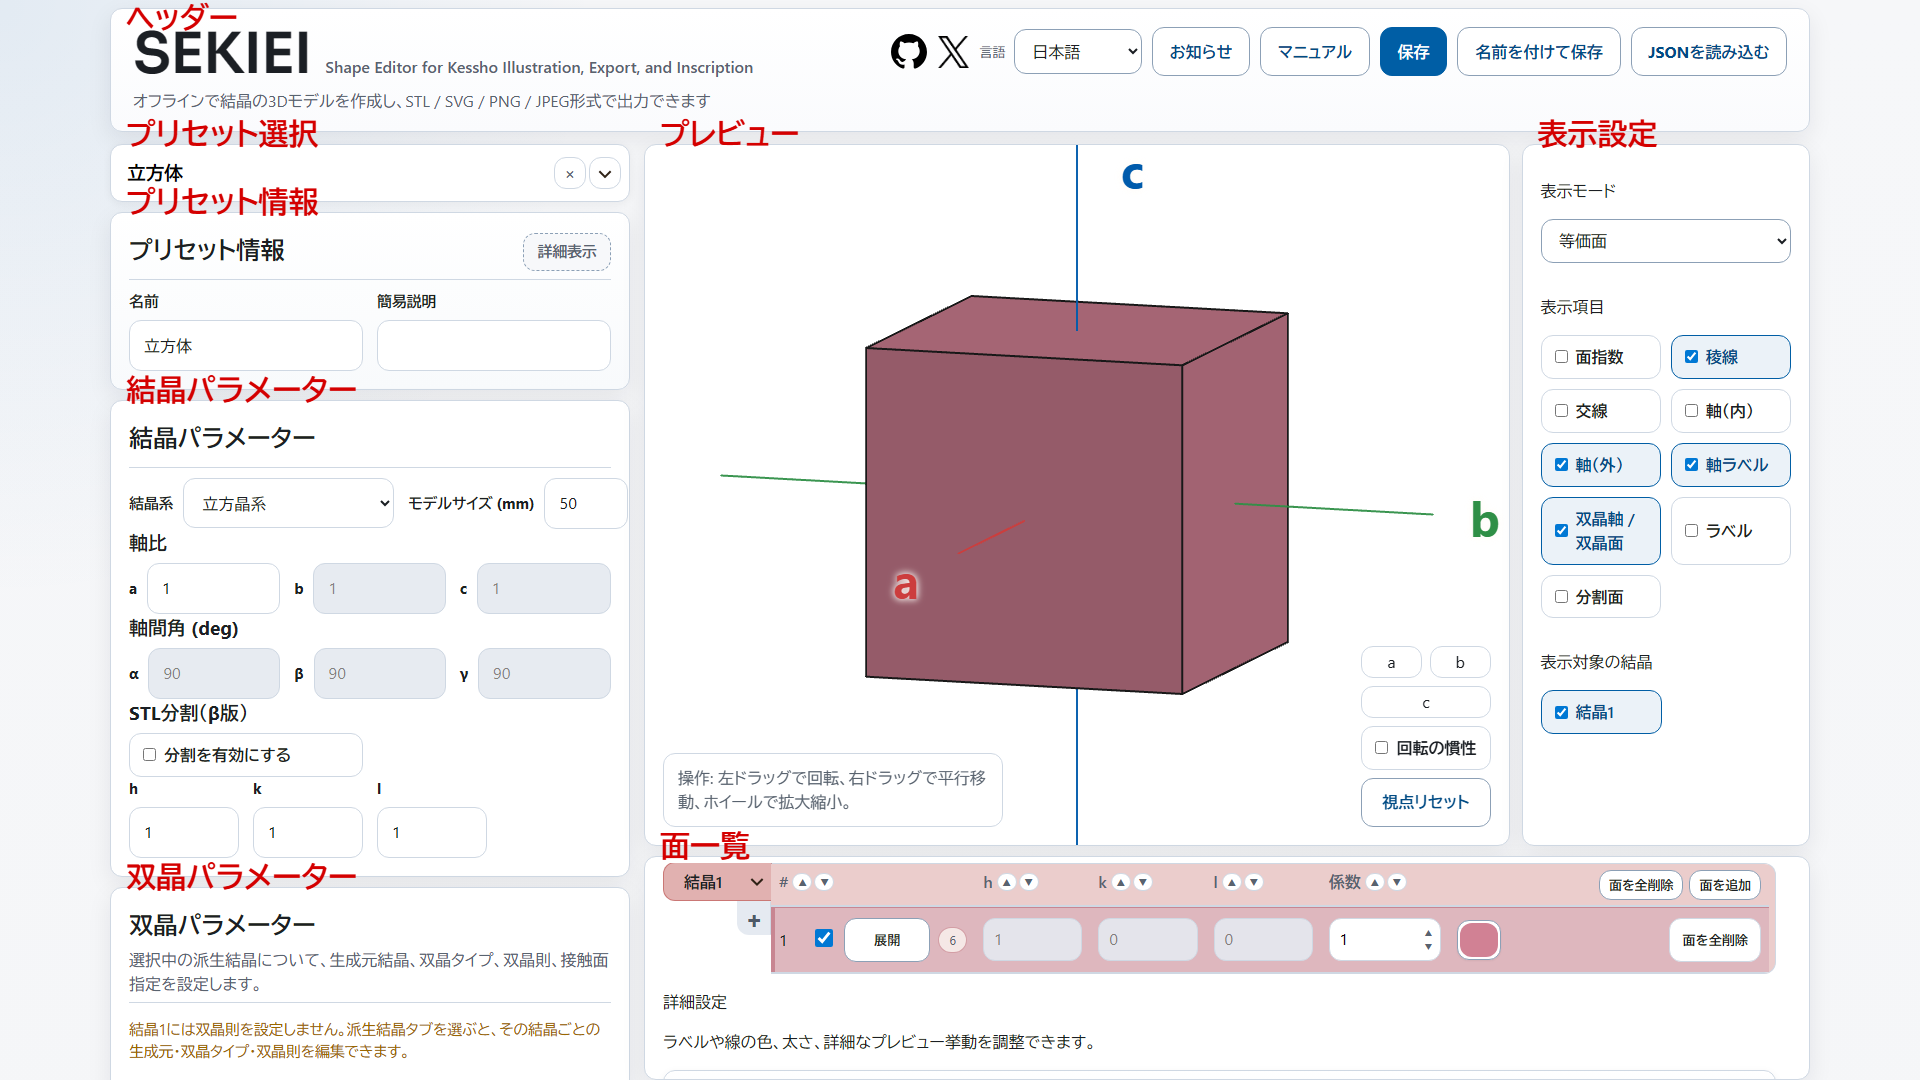
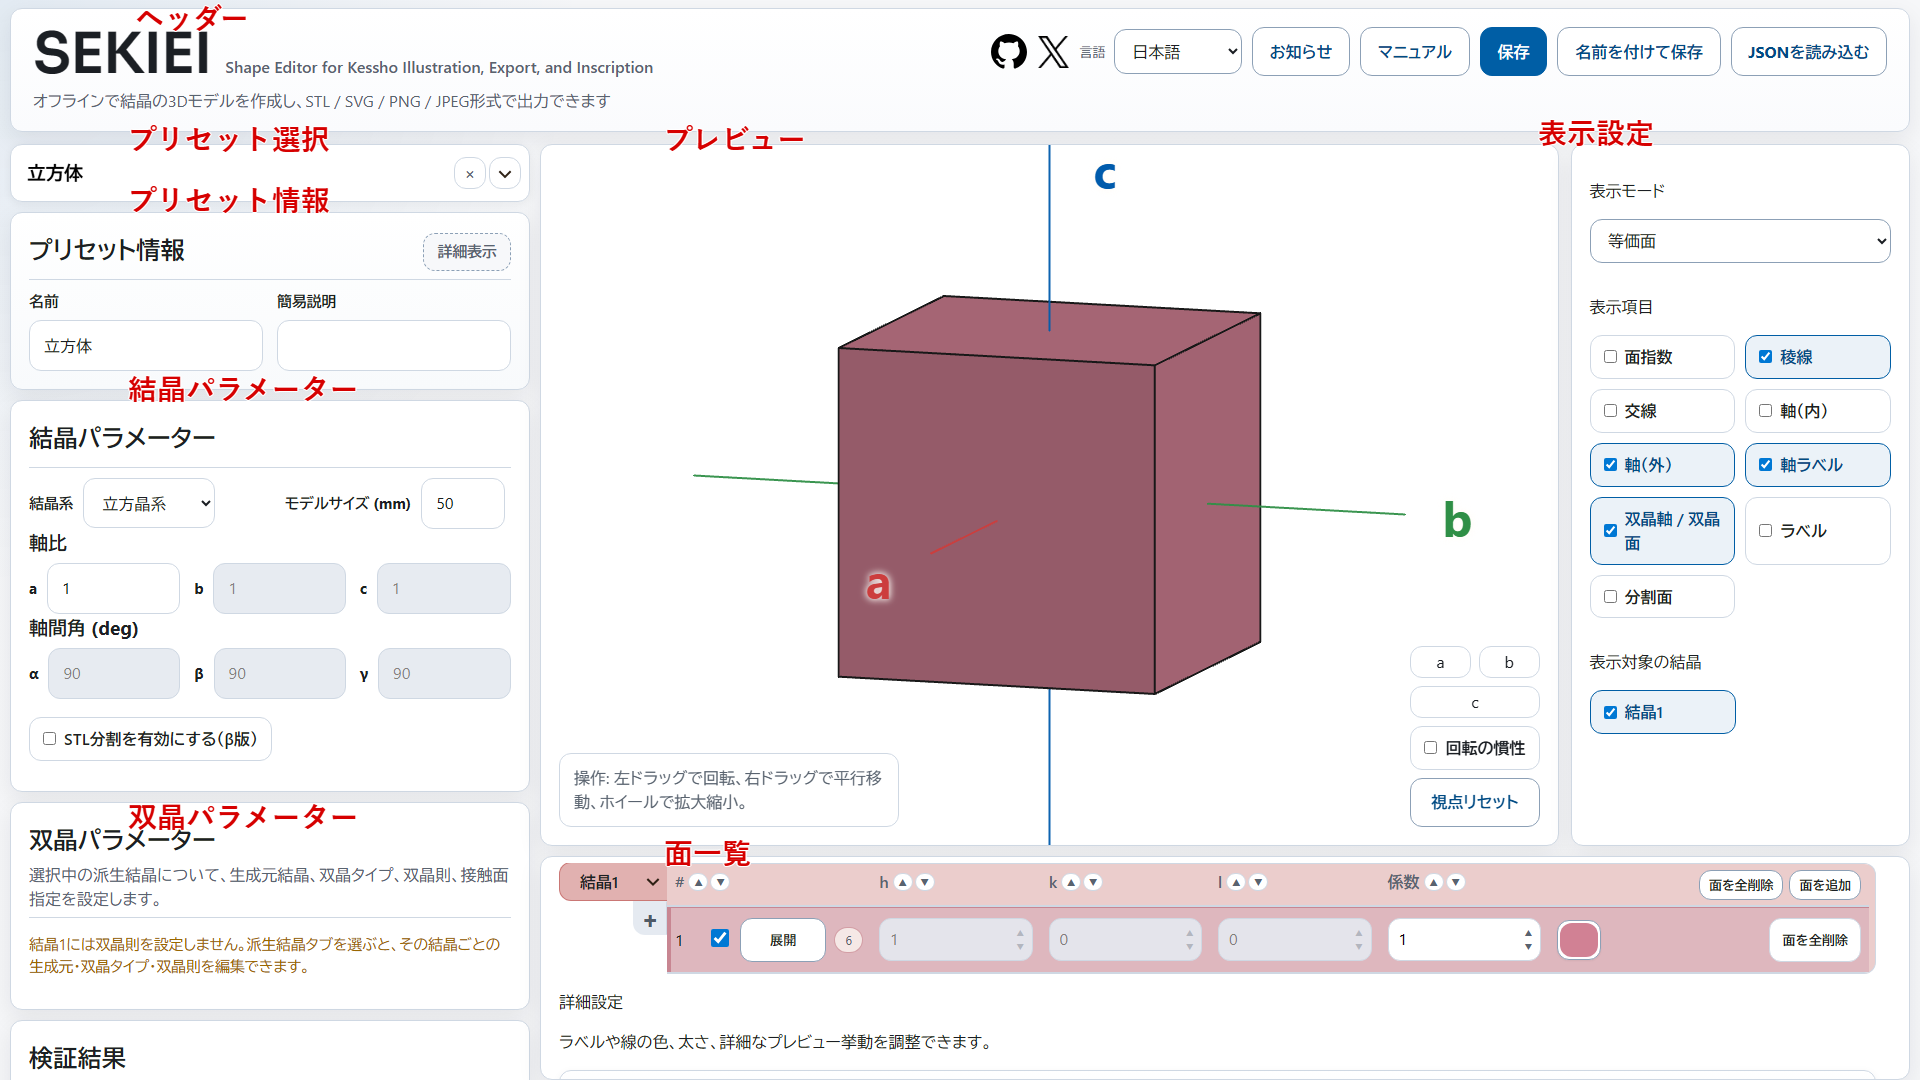
編集画面の横余白を小さくする

diff --git a/app-ui.css b/app-ui.css
@@ -1,10 +1,12 @@
 /* 正式版ページ固有のレイアウト差分と、保存メニュー / 面一覧などの専用見た目を定義する。 */
 .app-editor-shell {
-  width: min(1700px, calc(100vw - 32px));
+  width: auto;
+  margin-inline: 10px;
 }
 
 .app-layout {
   grid-template-columns: minmax(400px, 520px) minmax(780px, 1fr);
+  gap: 10px;
 }
 
 .twin-two-columns {
@@ -217,6 +219,34 @@
   width: 100%;
 }
 
+.stl-split-plane-fields > .field {
+  display: grid;
+  grid-template-columns: max-content minmax(0, 1fr);
+  align-items: center;
+  gap: 8px;
+  min-width: 0;
+}
+
+.stl-split-plane-fields .field span {
+  white-space: nowrap;
+}
+
+.stl-split-plane-fields[hidden] {
+  display: none;
+}
+
+.stl-split-enable-row {
+  display: flex;
+  align-items: center;
+  gap: 10px;
+  flex-wrap: wrap;
+  margin: 18px 0 12px;
+}
+
+.stl-split-enable-toggle {
+  max-width: 100%;
+}
+
 .twin-axis-angle-block {
   display: grid;
   flex: 0 0 200px;
@@ -228,6 +258,32 @@
 .twin-axis-angle-block .field {
   justify-content: flex-end;
   min-width: 92px;
+}
+
+.twin-contact-fields {
+  grid-template-columns: repeat(3, minmax(0, 1fr));
+  gap: 10px;
+  margin-top: 14px;
+}
+
+.twin-contact-fields .field {
+  min-width: 0;
+}
+
+.twin-contact-fields .field span {
+  line-height: 1.2;
+}
+
+.twin-contact-fields .field select {
+  width: 100%;
+  min-width: 0;
+}
+
+@media (min-width: 761px) {
+  html[lang="ja"] #app-crystal-system-select {
+    width: 60%;
+    min-width: 8.25rem;
+  }
 }
 
 .editor-subheading {
@@ -1197,6 +1253,7 @@
 @media (max-width: 1024px) {
   .app-layout,
   .twin-two-columns,
+  .twin-contact-fields,
   .four-columns,
   .preset-metadata-grid {
     grid-template-columns: minmax(0, 1fr);
@@ -1539,6 +1596,7 @@
   }
 
   .field-grid.three-columns.parameter-inline-grid > .field,
+  .stl-split-plane-fields > .field,
   .twin-compact-rule-fields > .field {
     grid-template-columns: 1fr;
     align-items: stretch;
@@ -1547,6 +1605,7 @@
   }
 
   .field-grid.three-columns.parameter-inline-grid .field span,
+  .stl-split-plane-fields .field span,
   .twin-compact-rule-fields .field span {
     white-space: normal;
     margin-right: 0;
@@ -1560,12 +1619,14 @@
 
   .field-grid.three-columns.parameter-inline-grid .field input,
   .field-grid.three-columns.parameter-inline-grid .field select,
+  .stl-split-plane-fields .field input,
   .twin-compact-rule-fields .field input {
     width: 100%;
     min-width: 0;
     padding-inline: 0.68rem;
   }
 
+  .stl-split-plane-fields .field input,
   .twin-compact-rule-fields .field input {
     padding-inline: 0.62rem;
   }
@@ -1573,7 +1634,7 @@
 
 @media (max-width: 720px) {
   .app-editor-shell {
-    width: min(100vw - 16px, 100%);
+    margin-inline: 8px;
   }
 
   .preview-stage {

diff --git a/index.html b/index.html
@@ -9,8 +9,8 @@
       content="default-src 'self'; script-src 'self'; style-src 'self' 'unsafe-inline'; img-src 'self' blob: data:; font-src 'self' data:; connect-src 'self' ws: wss:; object-src 'none'; base-uri 'none'; form-action 'self'; frame-ancestors 'none'"
     />
     <title data-i18n="app.pageTitle">Sekiei</title>
-    <link rel="stylesheet" href="./styles.css?v=20260510-axisoffset" />
-    <link rel="stylesheet" href="./app-ui.css?v=20260510-axisoffset" />
+    <link rel="stylesheet" href="./styles.css?v=20260511-tightspace" />
+    <link rel="stylesheet" href="./app-ui.css?v=20260511-tightspace" />
   </head>
   <body class="page-root">
     <!-- キーボード利用時にプレビュー領域を飛ばして main へ入るための導線。 -->
@@ -609,18 +609,18 @@
               </label>
             </div>
 
-            <h3 class="editor-subheading" data-i18n="editor.stlSplitTitle">
-              STL分割（β版）
-            </h3>
-            <div class="field-grid twin-two-columns">
-              <label class="toggle-chip">
+            <div class="stl-split-enable-row">
+              <label class="toggle-chip stl-split-enable-toggle">
                 <input id="app-stl-split-enabled-input" type="checkbox" />
-                <span data-i18n="editor.stlSplitEnabled">分割を有効にする</span>
+                <span data-i18n="editor.stlSplitEnabled">
+                  STL分割を有効にする（β版）
+                </span>
               </label>
             </div>
             <div
               id="app-stl-split-plane-fields"
-              class="field-grid four-columns twin-compact-rule-fields"
+              class="field-grid four-columns stl-split-plane-fields"
+              hidden
             >
               <label class="field">
                 <span>h</span>
@@ -749,7 +749,10 @@
               </div>
             </div>
 
-            <div id="twin-contact-fields" class="field-grid twin-two-columns">
+            <div
+              id="twin-contact-fields"
+              class="field-grid twin-contact-fields"
+            >
               <label class="field">
                 <span id="twin-base-face-ref-label">生成元結晶の接触面</span>
                 <select id="twin-base-face-ref-select"></select>

diff --git a/tests/unit/ui/formUi.test.ts b/tests/unit/ui/formUi.test.ts
@@ -23,6 +23,7 @@ describe("ui/formUi", () => {
       <textarea id="metadata-full-reference"></textarea>
       <input id="size" />
       <input id="stl-split-enabled" type="checkbox" />
+      <div id="stl-split-fields"></div>
       <input id="stl-split-h" />
       <input id="stl-split-k" />
       <input id="stl-split-i" />
@@ -80,6 +81,7 @@ describe("ui/formUi", () => {
       },
       sizeInput: document.getElementById("size"),
       stlSplitEnabledInput: document.getElementById("stl-split-enabled"),
+      stlSplitPlaneFields: document.getElementById("stl-split-fields"),
       stlSplitPlaneInputs: {
         h: document.getElementById("stl-split-h"),
         k: document.getElementById("stl-split-k"),
@@ -229,6 +231,23 @@ describe("ui/formUi", () => {
     actions.applyCustomPresetSelection("Custom");
     expect(context.state.parameters.presetId).toBe("custom");
     expect(context.state.presetQuery).toBe("Custom");
+  });
+
+  it("renderFormValues は STL 分割が有効な時だけ指数入力欄を表示する", () => {
+    const context = createContext();
+    const actions = createPageUiActions(context);
+    const fields = context.elements.stlSplitPlaneFields as HTMLElement;
+
+    actions.renderFormValues();
+
+    expect(fields.hidden).toBe(true);
+    expect(fields.style.display).toBe("none");
+
+    context.state.stlSplit.enabled = true;
+    actions.renderFormValues();
+
+    expect(fields.hidden).toBe(false);
+    expect(fields.style.display).toBe("");
   });
 
   it("applyTwinPreset は単結晶 preset 適用時に既存の双晶状態を引き継がない", () => {

diff --git a/src/ui/formUi.ts b/src/ui/formUi.ts
@@ -143,6 +143,7 @@ export function createPageUiActions(context: PageUiActionContext) {
       sizeInput: context.elements.sizeInput as HTMLInputElement,
       stlSplitEnabledInput: context.elements
         .stlSplitEnabledInput as HTMLInputElement,
+      stlSplitPlaneFields: context.elements.stlSplitPlaneFields as HTMLElement,
       stlSplitPlaneInputs: {
         h: context.elements.stlSplitPlaneInputs.h as HTMLInputElement,
         k: context.elements.stlSplitPlaneInputs.k as HTMLInputElement,
@@ -516,8 +517,12 @@ export function createPageUiActions(context: PageUiActionContext) {
     typedElements.crystalSystemSelect.value =
       context.state.parameters.crystalSystem;
     typedElements.sizeInput.value = String(context.state.parameters.sizeMm);
-    typedElements.stlSplitEnabledInput.checked =
-      context.state.stlSplit.enabled === true;
+    const stlSplitEnabled = context.state.stlSplit.enabled === true;
+    typedElements.stlSplitEnabledInput.checked = stlSplitEnabled;
+    typedElements.stlSplitPlaneFields.hidden = !stlSplitEnabled;
+    typedElements.stlSplitPlaneFields.style.display = stlSplitEnabled
+      ? ""
+      : "none";
     typedElements.stlSplitPlaneInputs.h.value = String(
       context.state.stlSplit.plane?.h ?? 1,
     );

diff --git a/src/i18n.ts b/src/i18n.ts
@@ -241,8 +241,7 @@ const translations = {
     "editor.modelSize": "モデルサイズ (mm)",
     "editor.axisLengths": "軸比",
     "editor.axisAngles": "軸間角 (deg)",
-    "editor.stlSplitTitle": "STL分割（β版）",
-    "editor.stlSplitEnabled": "分割を有効にする",
+    "editor.stlSplitEnabled": "STL分割を有効にする（β版）",
     "twin.settingsTitle": "双晶パラメーター",
     "twin.settingsDescription":
       "選択中の派生結晶について、生成元結晶、双晶タイプ、双晶則、接触面指定を設定します。",
@@ -736,8 +735,7 @@ const translations = {
     "editor.modelSize": "Model Size (mm)",
     "editor.axisLengths": "Axis Ratios",
     "editor.axisAngles": "Interaxial Angles (deg)",
-    "editor.stlSplitTitle": "STL Split (beta)",
-    "editor.stlSplitEnabled": "Enable Split",
+    "editor.stlSplitEnabled": "Enable STL Split (beta)",
     "twin.settingsTitle": "Twin Parameters",
     "twin.settingsDescription":
       "Set the source crystal, twin type, twin law, and contact-face assignment for the selected derived crystal.",

diff --git a/src/ui/page/pageElements.ts b/src/ui/page/pageElements.ts
@@ -87,6 +87,7 @@ export function queryAppPageElements() {
     stlSplitEnabledInput: document.querySelector(
       "#app-stl-split-enabled-input",
     ),
+    stlSplitPlaneFields: document.querySelector("#app-stl-split-plane-fields"),
     stlSplitPlaneInputs: {
       h: document.querySelector("#app-stl-split-plane-h-input"),
       k: document.querySelector("#app-stl-split-plane-k-input"),

diff --git a/styles.css b/styles.css
@@ -417,7 +417,7 @@ textarea:focus-visible {
 }
 
 .parameter-inline-grid--primary {
-  grid-template-columns: minmax(0, 1.7fr) minmax(0, 1.3fr);
+  grid-template-columns: minmax(0, 1.55fr) minmax(0, 1.45fr);
 }
 
 .parameter-inline-grid--primary > .field {

diff --git a/AGENTS.md b/AGENTS.md
@@ -40,6 +40,7 @@
 - この公開リポジトリに `tasks/` を復活させないでください。
 - `.agents/` はローカル運用用として Git 管理対象から外します。
 - ユーザーが認識できる挙動、UI、出力内容、既知の制約が変わる場合は、同じ作業で `docs/changelog.md` を更新します。
+- お知らせに書く内容のうち、できることが変わっていない UI 調整は、不具合修正でない限り `UIを調整しました。` 程度の簡潔な表現にします。
 - `docs/changelog.md` の最新項目を変えた場合は、README の更新履歴抜粋と `tests/unit/data/announcements.test.ts` の最新 version 期待値も追従します。
 - リリースと version 変更は一致させます。実際に release version を上げる指示や公開反映がない限り、新しい version section は作らず、未リリースの変更は現在の release 範囲の最新 changelog entry に合流します。
 - 未リリース変更を最新 changelog entry に合流するときは、その entry の日付も今回の更新日へ揃え、README の更新履歴抜粋と announcement test も同じ日付・version にします。

diff --git a/docs/changelog.md b/docs/changelog.md
@@ -10,12 +10,14 @@ This file is also used as the source for the in-app announcement modal.
 - 柘榴石の形状プリセット 2 件とスピネル式双晶プリセットを追加しました。
 - 双晶を編集中に単結晶プリセットを読み込んだ場合、既存の双晶状態を引き継がず単結晶として読み込むようにしました。
 - 貫入双晶で、派生結晶を双晶軸方向へずらす `軸方向オフセット` を指定できるようにしました。
+- UIを調整しました。
 
 ### en
 
 - Added two garnet shape presets and a spinel-law twin preset.
 - When loading a single-crystal preset while editing a twin, the preset now loads as a single crystal instead of inheriting the current twin state.
 - Added `Axis Offset` for penetration twins so the derived crystal can be moved along the twin axis.
+- Adjusted the UI.
 
 ## 2026-04-27 / v0.1.3
 

diff --git a/docs/preview-controls.md b/docs/preview-controls.md
@@ -70,7 +70,7 @@ mobile では、1本指回転のあとに指を離した時だけ慣性が続き
 - ラベル
 - 各結晶の表示
 
-`分割面` は既定ではオフです。`STL分割（β版）` で設定した平面を preview 上にガイドとして表示したい時だけオンにします。
+`分割面` は既定ではオフです。`STL分割を有効にする（β版）` で設定した平面を preview 上にガイドとして表示したい時だけオンにします。
 
 面文字が入っている面では、文字と面の境界が補助線として重なって表示されます。これは双晶の `交線` トグルとは独立して、面文字の位置や大きさを確認しやすくするための表示です。
 

diff --git a/docs/user-manual.en.md b/docs/user-manual.en.md
@@ -399,9 +399,10 @@ Save JSON when you want to continue editing later in Sekiei.
 
 ### STL Split (beta)
 
-At the bottom of the Crystal Parameters card, `STL Split (beta)` is used only for STL export.
+At the bottom of the Crystal Parameters card, `Enable STL Split (beta)` is used only for STL export.
 
-- Turn on `Enable Split` to split the model during normal STL export
+- Turn on `Enable STL Split (beta)` to split the model during normal STL export
+- The split-plane index inputs are shown only while this setting is on
 - The split plane is the plane with the specified face indices passing through the center of Crystal 1
 - You can save STL split by the specified plane
 - STL split settings are not included in JSON save data
